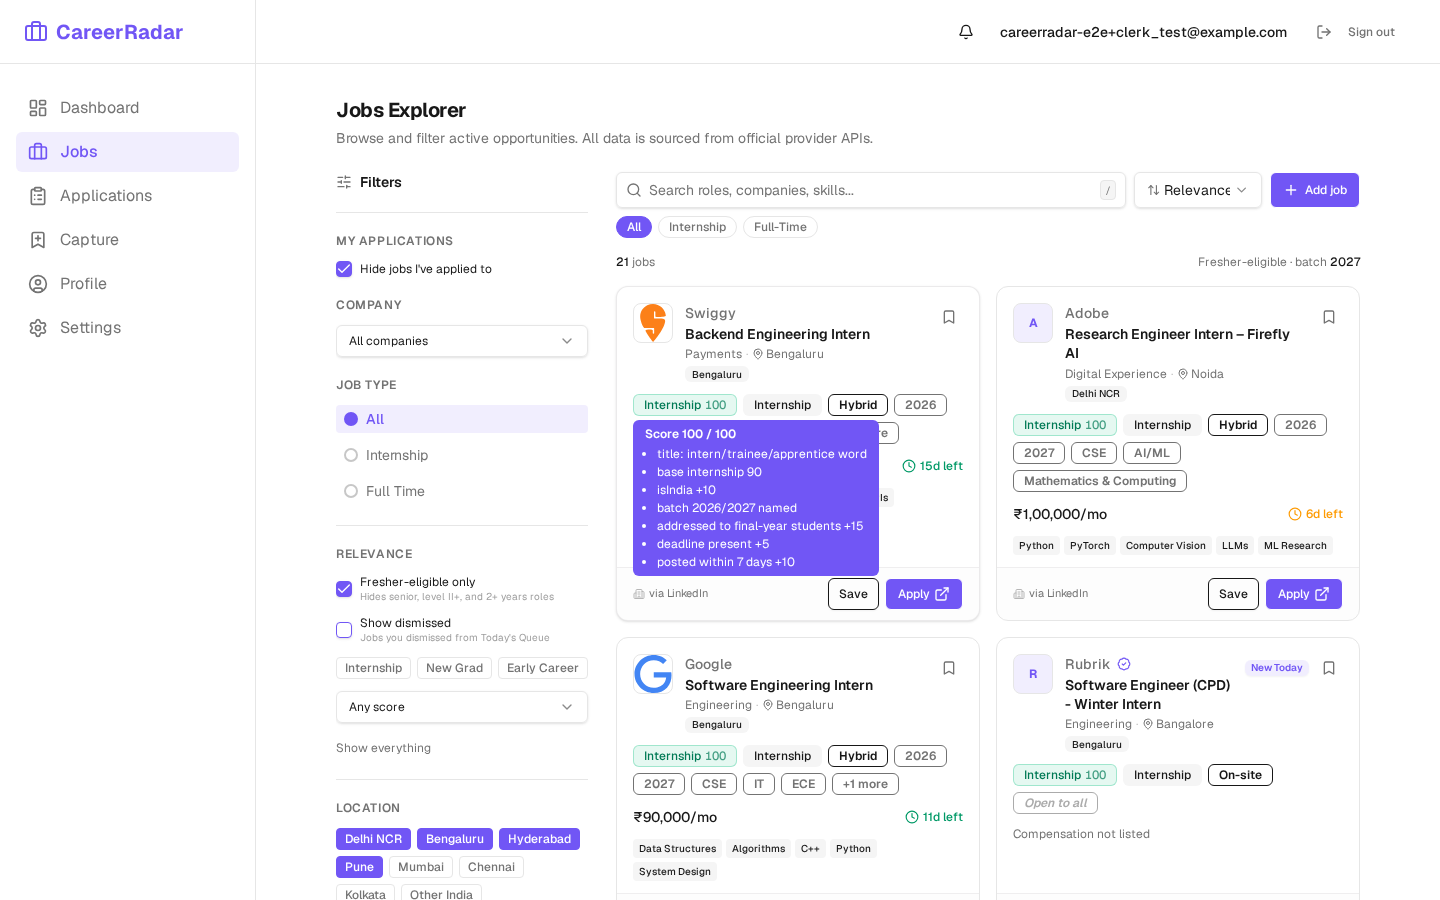
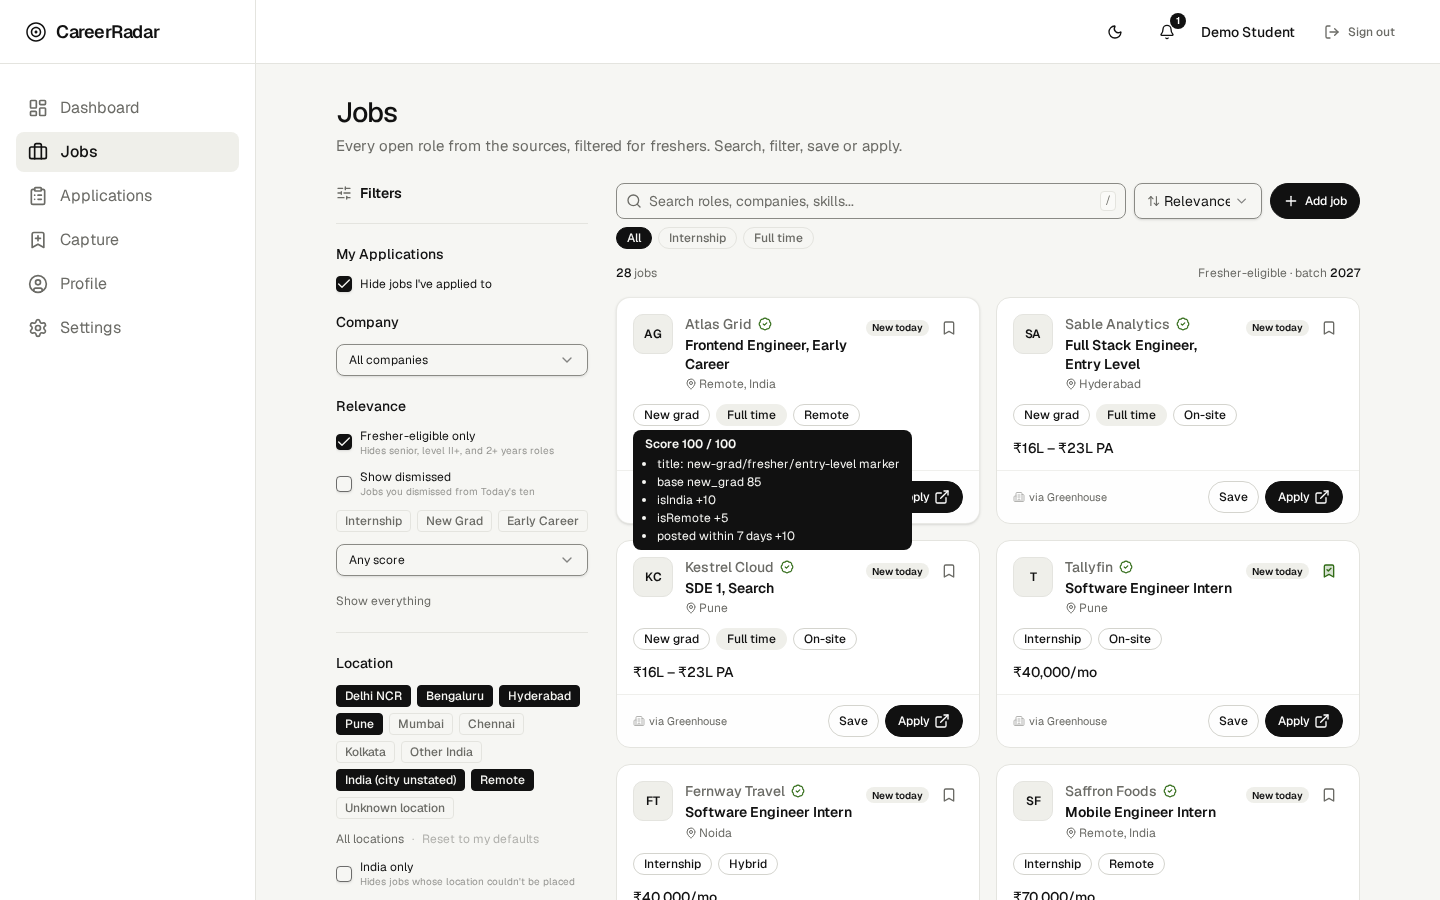
docs(screenshots): recapture the README screenshots from the current app
The README images predated the light theme, the radar logo, Geist, the
human queue reasons and "How is this ranked?". All 14 are recaptured from
main under the same filenames, at 1440x900, light, with invented data.

scripts/capture-readme.mjs produces them on the record-walkthrough.mjs
harness (local Postgres, capture seed, capture API, Clerk stub), so the
README's regenerate command is the one that made the images. sign-in.png
is Clerk's real card, rendered from the dev server with a local
development key; nothing is signed in or created. The script refuses to
write an image drawn in the fallback font, which Geist's
font-display: optional produced in the first runs.

The capture fixture pastes the same LinkedIn URL as e2e/capture.spec.ts,
so the ToS-domain guard's allowlist gains the script, with its reason.
e2e/screenshots.spec.ts now says it captures your own data.

diff --git a/e2e/screenshots.spec.ts b/e2e/screenshots.spec.ts
@@ -1,9 +1,10 @@
 /**
- * README screenshot capture.
+ * README screenshot capture, against your own data.
  * ──────────────────────────
- * Not a test. This is the script that produced every image in
- * `docs/screenshots/`, kept in the repo so the next person to change the UI can
- * regenerate them in one command instead of hand-cropping browser windows:
+ * Not a test. The images committed in `docs/screenshots/` come from
+ * `scripts/capture-readme.mjs`, which uses invented data and needs no Clerk
+ * keys. This spec photographs the same pages from your local database with a
+ * real Clerk session, under the same file names:
  *
  *   CAPTURE_SCREENSHOTS=1 pnpm run test:e2e e2e/screenshots.spec.ts
  *

diff --git a/artifacts/api-server/src/capture/blocked-domains.test.ts b/artifacts/api-server/src/capture/blocked-domains.test.ts
@@ -138,6 +138,11 @@ const ALLOWED: Array<{ path: string; reason: string }> = [
     reason:
       "The same fixture as e2e/capture.spec.ts, reused so the README screenshot shows the parse that suite asserts on. Typed into the dialog as a string; nothing fetches it.",
   },
+  {
+    path: "scripts/capture-readme.mjs",
+    reason:
+      "The same fixture as e2e/capture.spec.ts, for the README's capture screenshot. Typed into the dialog as a string against a local stubbed API; nothing fetches it.",
+  },
 ];
 
 const ALLOWED_PATHS = new Set(ALLOWED.map((entry) => entry.path));
